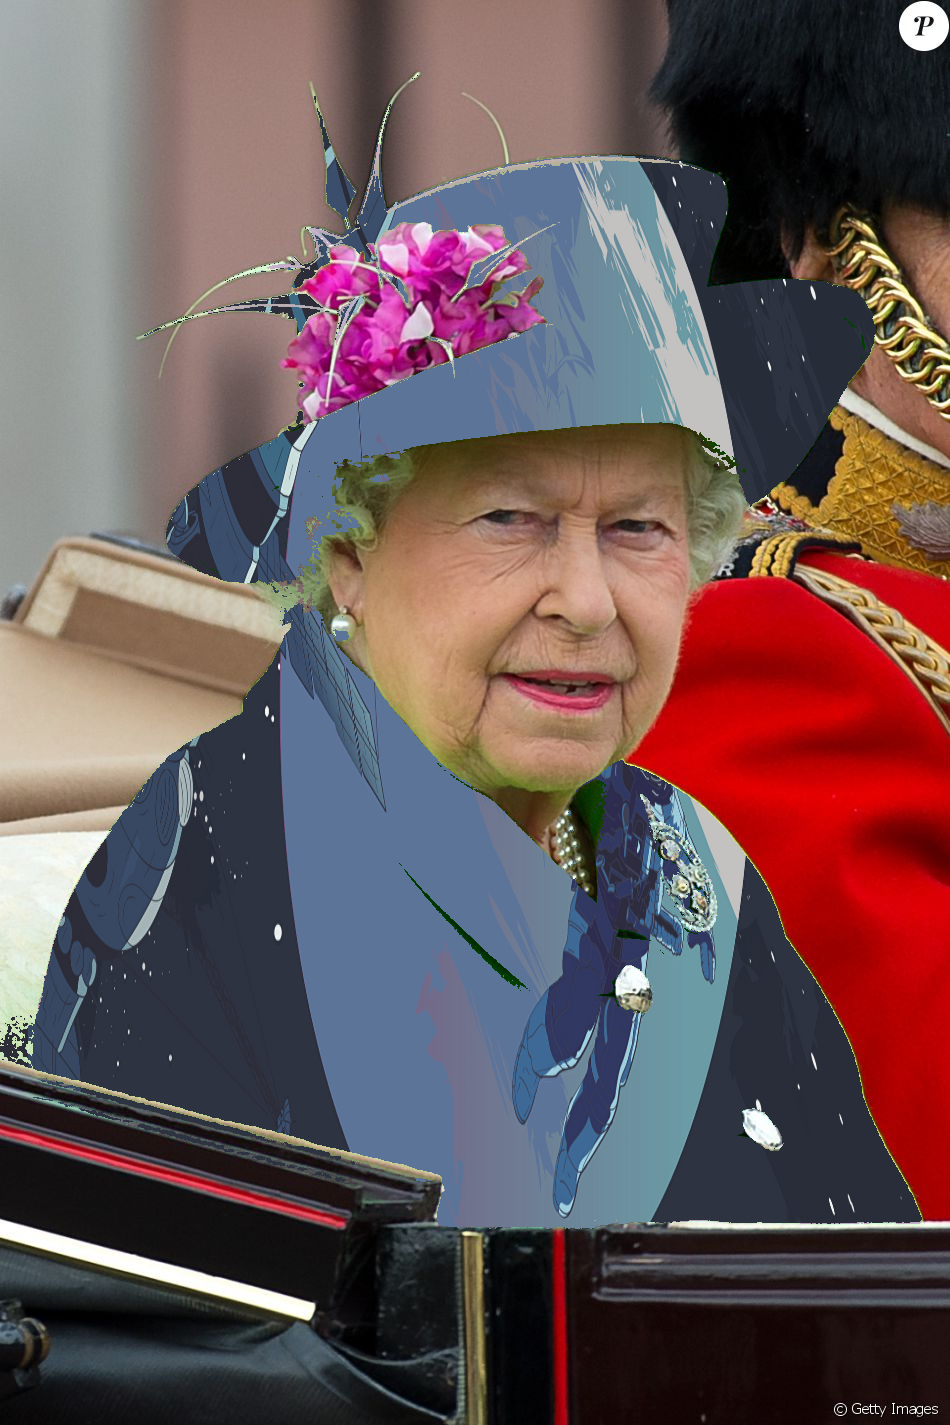
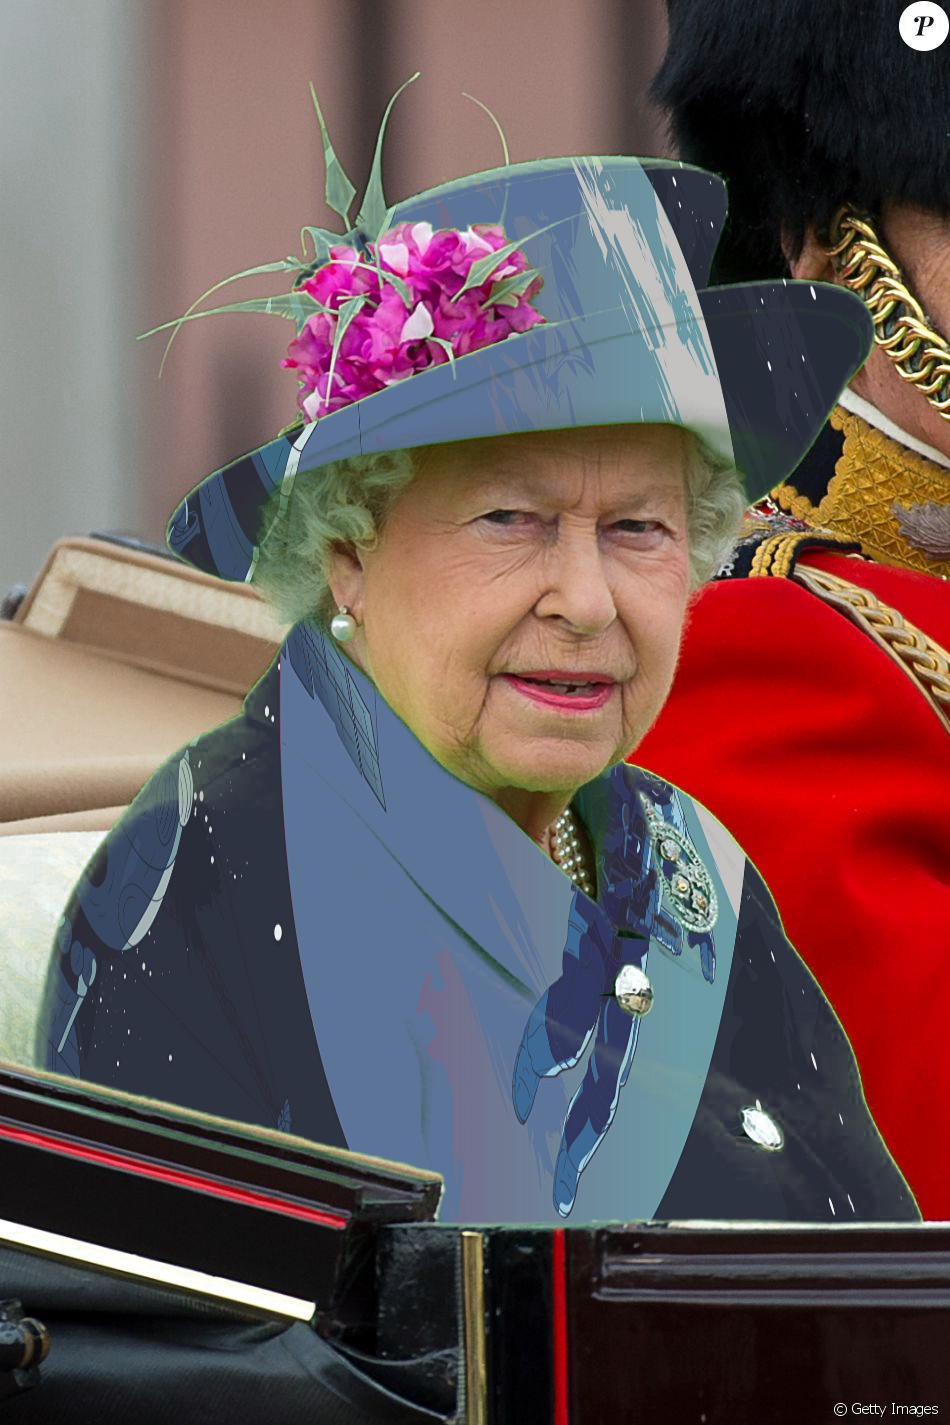
Aprimoramento do trabalho 5

diff --git a/trabalho-05/main.py b/trabalho-05/main.py
@@ -13,69 +13,80 @@ import os
 
 #===============================================================================
 
-IMAGES = ["0.bmp", "1.bmp", "2.bmp", "3.bmp", "4.bmp", "5.bmp", "6.bmp", "7.bmp", "8.bmp"]
-BACKGROUND = "astronaut.png"
+IMAGES = [
+    "img/0.bmp", 
+    "img/1.bmp", 
+    "img/2.bmp", 
+    "img/3.bmp", 
+    "img/4.bmp", 
+    "img/5.bmp", 
+    "img/6.bmp", 
+    "img/7.bmp", 
+    "img/8.bmp"
+]
+
+BACKGROUND = "background/astronaut.png"
 
 #===============================================================================
 
-def mask(img):
-    hls = cv2.cvtColor(img.copy(), cv2.COLOR_BGR2HLS)
-    lower_green = np.array([40, 50, 60])   # H, L, S
-    upper_green = np.array([75, 200, 255])
-    
-    mask = cv2.inRange(hls, lower_green, upper_green)
+def create_mask(img):
+    r = img[:, :, 0]
+    g = img[:, :, 1]
+    b = img[:, :, 2]
 
-    mask = np.where(mask[...] != 0, 1, 0)
+    green = 1 + np.maximum(b,r) - g
+    green = np.clip(green, 0.0, 1.0)
 
-    return mask
+    return green
 
 #-------------------------------------------------------------------------------
 
-def apply_image(img, mask, bg_path):
+def remove_green(img, mask):
+    alpha = cv2.normalize(mask, None, 0, 1, cv2.NORM_MINMAX) # type: ignore
+    alpha = np.clip(alpha * 1.5 - 0.5, 0, 1)
+
+    removed = cv2.cvtColor(img, cv2.COLOR_BGR2HLS)
+    removed[:, :, 2] *= alpha
+    removed = cv2.cvtColor(removed, cv2.COLOR_HLS2BGR)
+
+    return alpha, removed
+
+#-------------------------------------------------------------------------------
+
+def apply_image(fg, mask, bg_path):
     bg = cv2.imread(bg_path, cv2.IMREAD_UNCHANGED)
     if bg is None:
-        print('Erro abrindo a imagem.\n')
+        print("Erro abrindo a imagem de background.\n")
         return
     bg = bg.reshape((bg.shape[0], bg.shape[1], bg.shape[2]))
-
-    bg = cv2.resize(bg, (img.shape[1], img.shape[0]))
+    bg = cv2.resize(bg, (fg.shape[1], fg.shape[0]))
     if bg.shape[2] == 4:
         bg = bg[:, :, :3]
+    bg = bg.astype(np.float32) / 255
 
-    bg_removed = np.where(mask[..., None] == 0, img, 0)
-
-    img_float = bg_removed.astype(np.float32)
-    b, g, r = cv2.split(img_float)
-    spill_mask = (g > r * 1.2) & (g > b * 1.2)
-
-    b[spill_mask] *= 0.3
-    g[spill_mask] *= 0.3
-    r[spill_mask] *= 0.3
-
-    corrected = cv2.merge([b, g, r]).astype(np.uint8)
-
-    result = np.where(mask[..., None] == 0, corrected, bg)
+    result = (fg * mask[..., None]) + (bg * (1 - mask[..., None]))
 
     return result
 
 #-------------------------------------------------------------------------------
 
 if __name__ == "__main__":
-    for bmp in IMAGES:
-        in_path = os.path.join("img", bmp)
+    if not os.path.exists("resultados"):
+        os.mkdir("resultados")
+    i = 0
+    for in_path in IMAGES:
         img = cv2.imread(in_path, cv2.IMREAD_UNCHANGED)
         if img is None:
-            print('Erro abrindo a imagem.\n')
+            print("Erro abrindo a imagem.\n")
             break
         img = img.reshape((img.shape[0], img.shape[1], img.shape[2]))
+        img = img.astype(np.float32) / 255
+
+        mask = create_mask(img.copy())
+        mask, fg = remove_green(img.copy(), mask)
+        result = apply_image(fg, mask, BACKGROUND)
+
+        out_path = os.path.join("resultados", str(i) + ".png")
+        cv2.imwrite(out_path, (result * 255).astype(np.uint8)) # type: ignore
         
-        binario = mask(img.copy())
-
-        bg_path = os.path.join("background", BACKGROUND)
-        resultado = apply_image(img.copy(), binario, bg_path)
-        if resultado is None:
-            break
-
-        out_path = os.path.join("resultados", (bmp.split('.')[0]) + '.png')
-
-        cv2.imwrite(out_path, resultado)
+        i += 1
